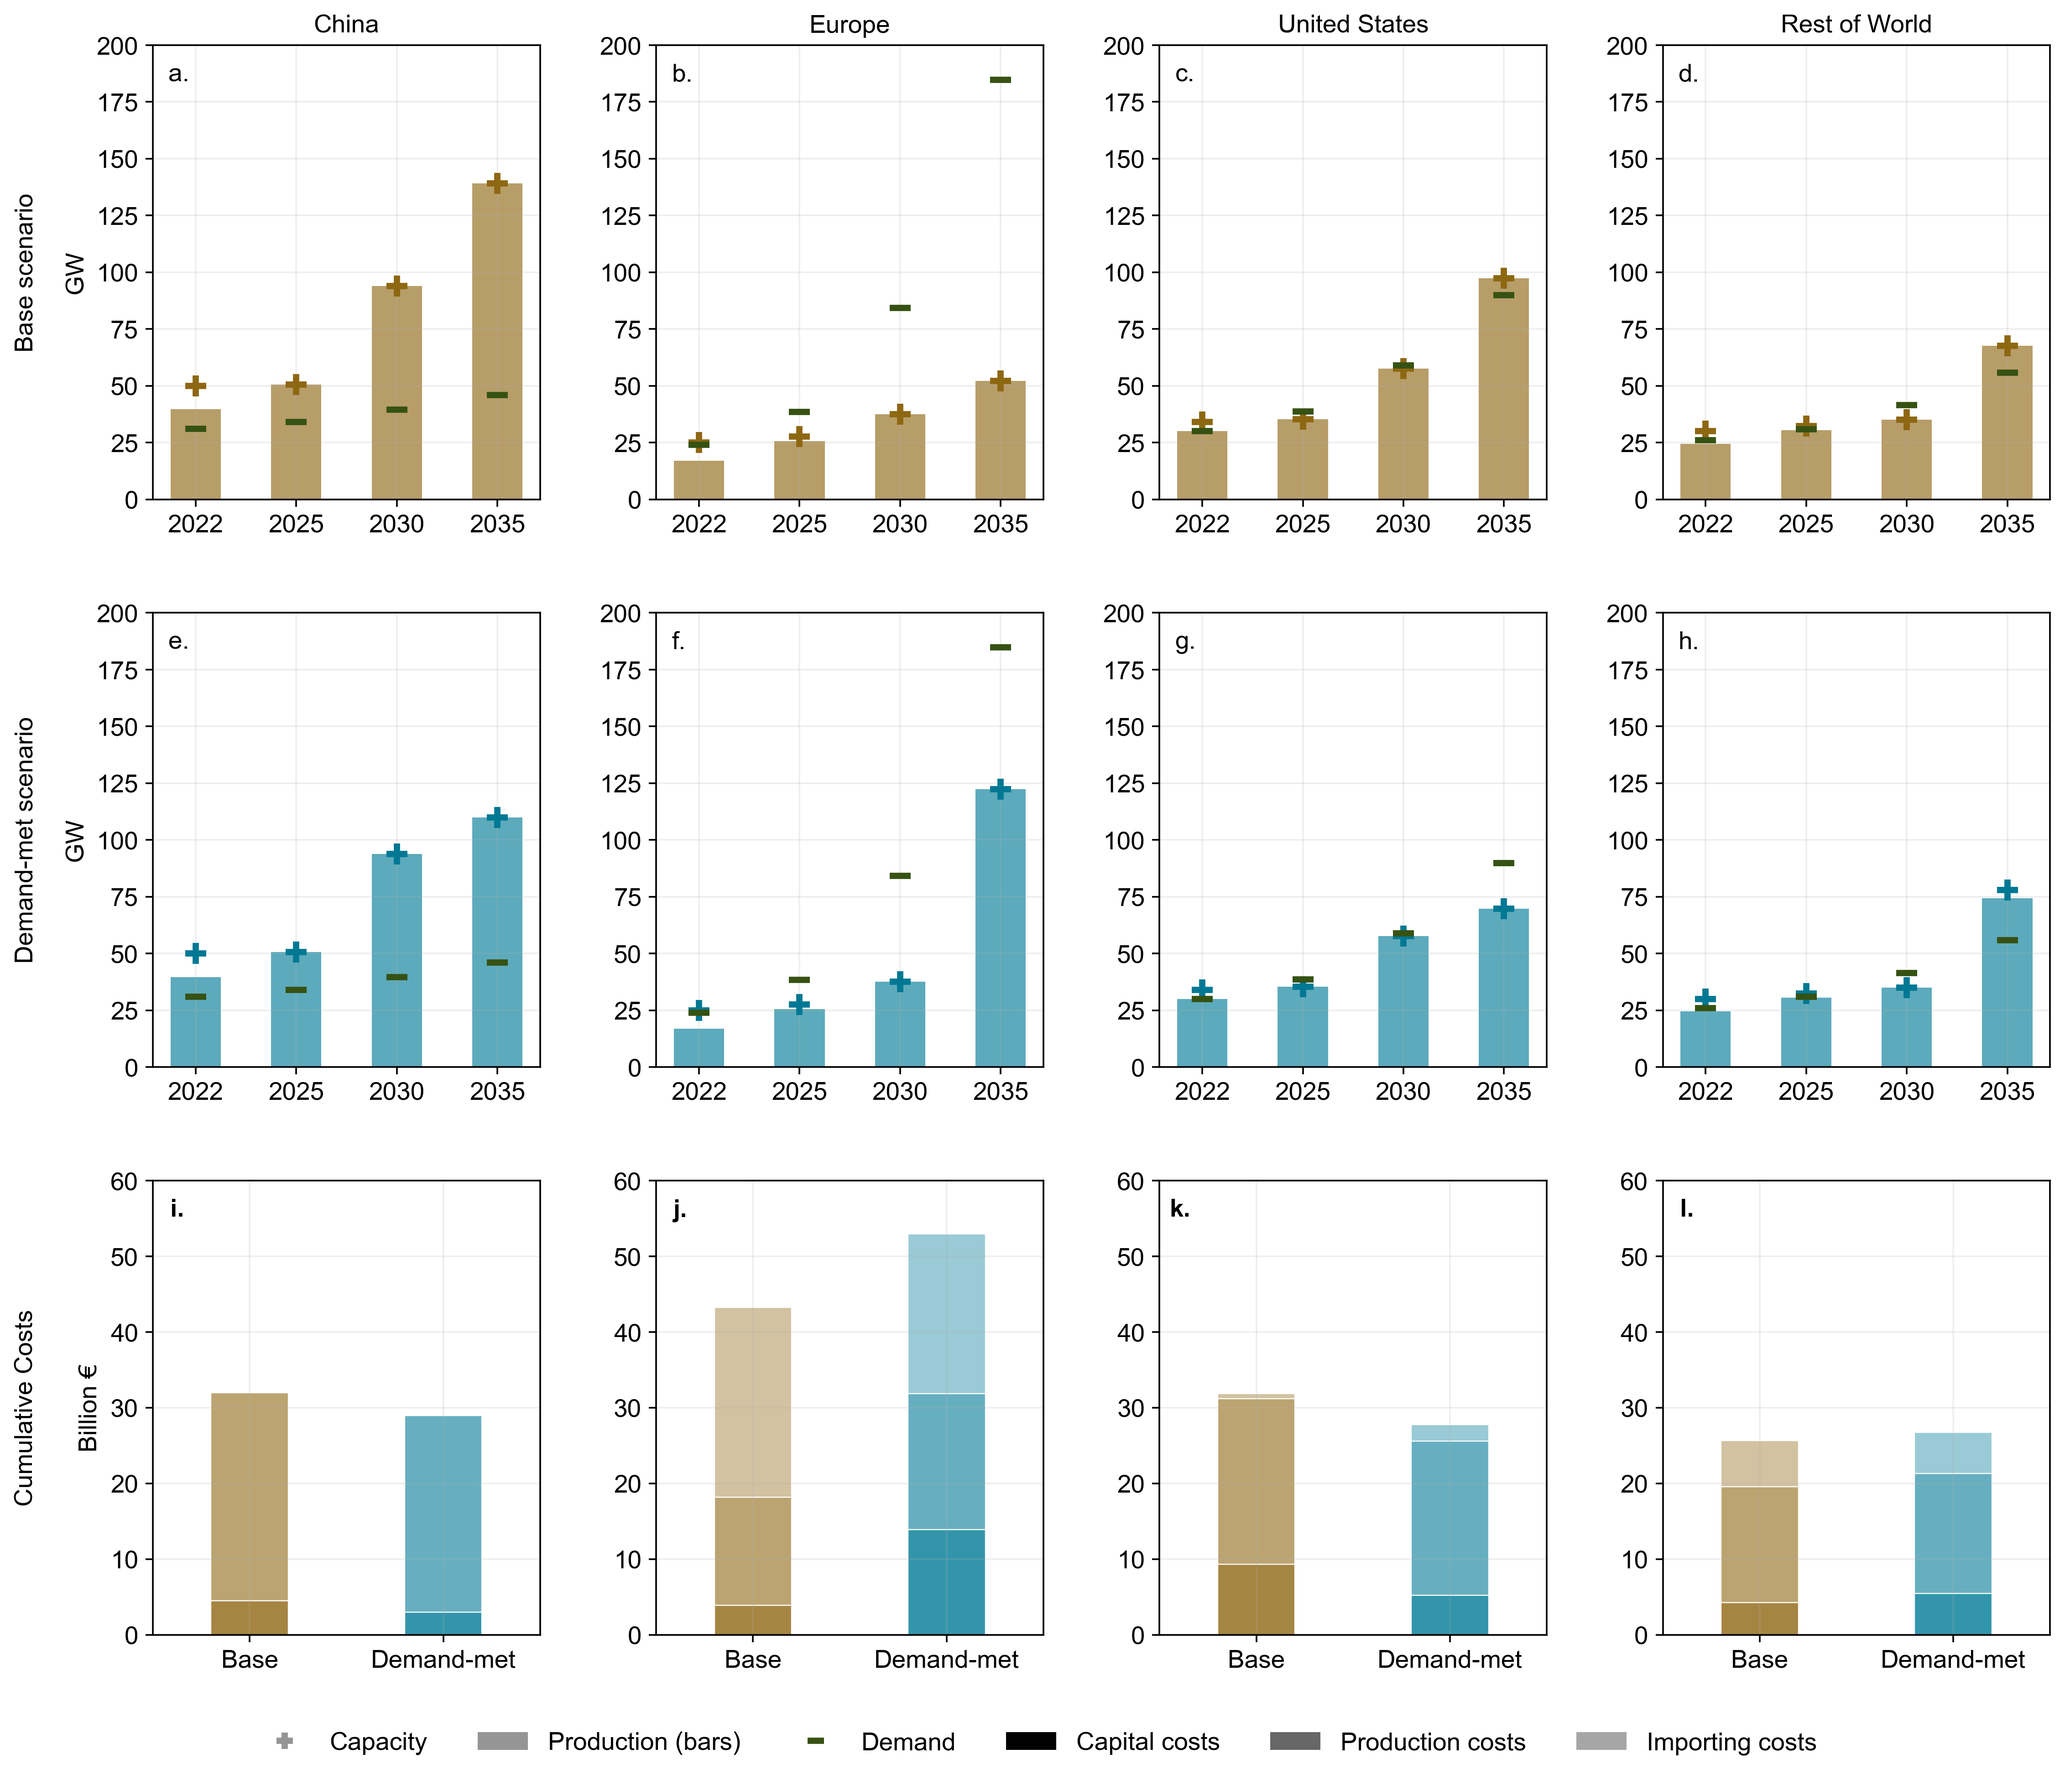
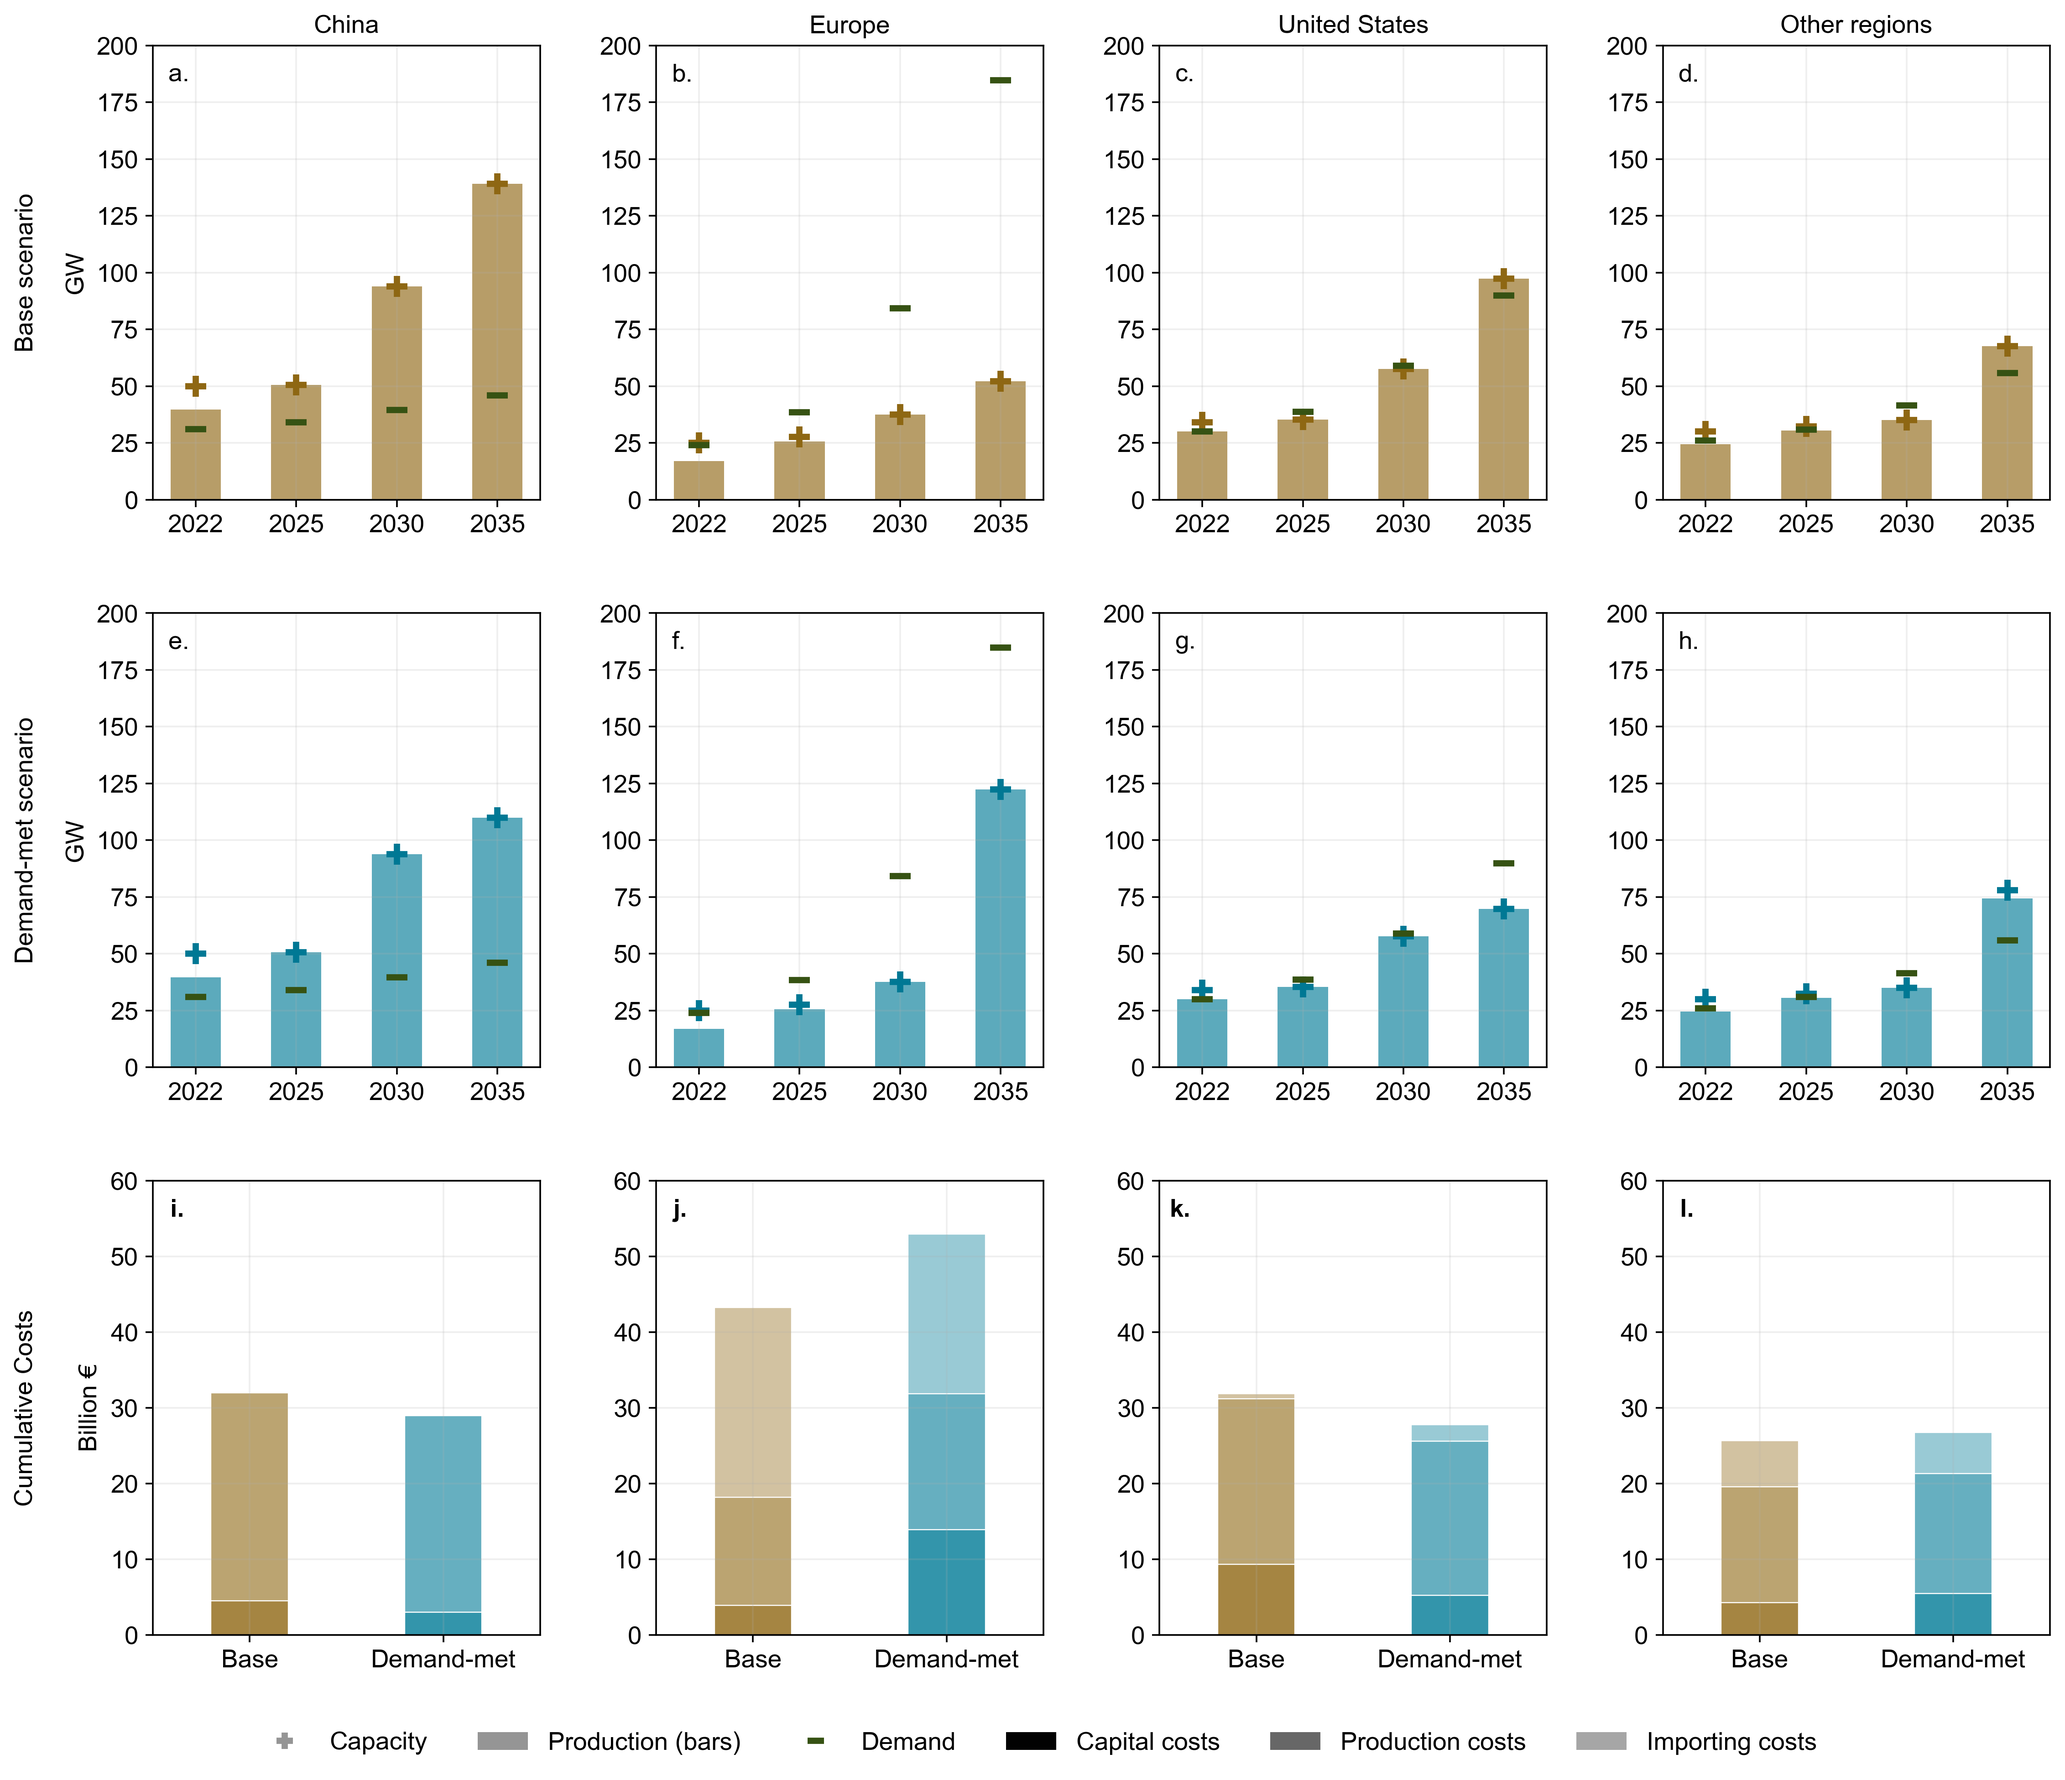
HP SC 31.10.2025
to do: tradeoff, sensitivity

Changed region(s): [[0.8723, 0.0, 0.9346, 0.031]]

diff --git a/figure1.py b/figure1.py
@@ -571,7 +571,7 @@ for col, region in enumerate(regions_list):
     elif region == 'USA':
         region_label = 'United States'
     elif region == 'ROW':
-        region_label = 'Rest of World'
+        region_label = 'Other regions'
     else:
         region_label = region
 
